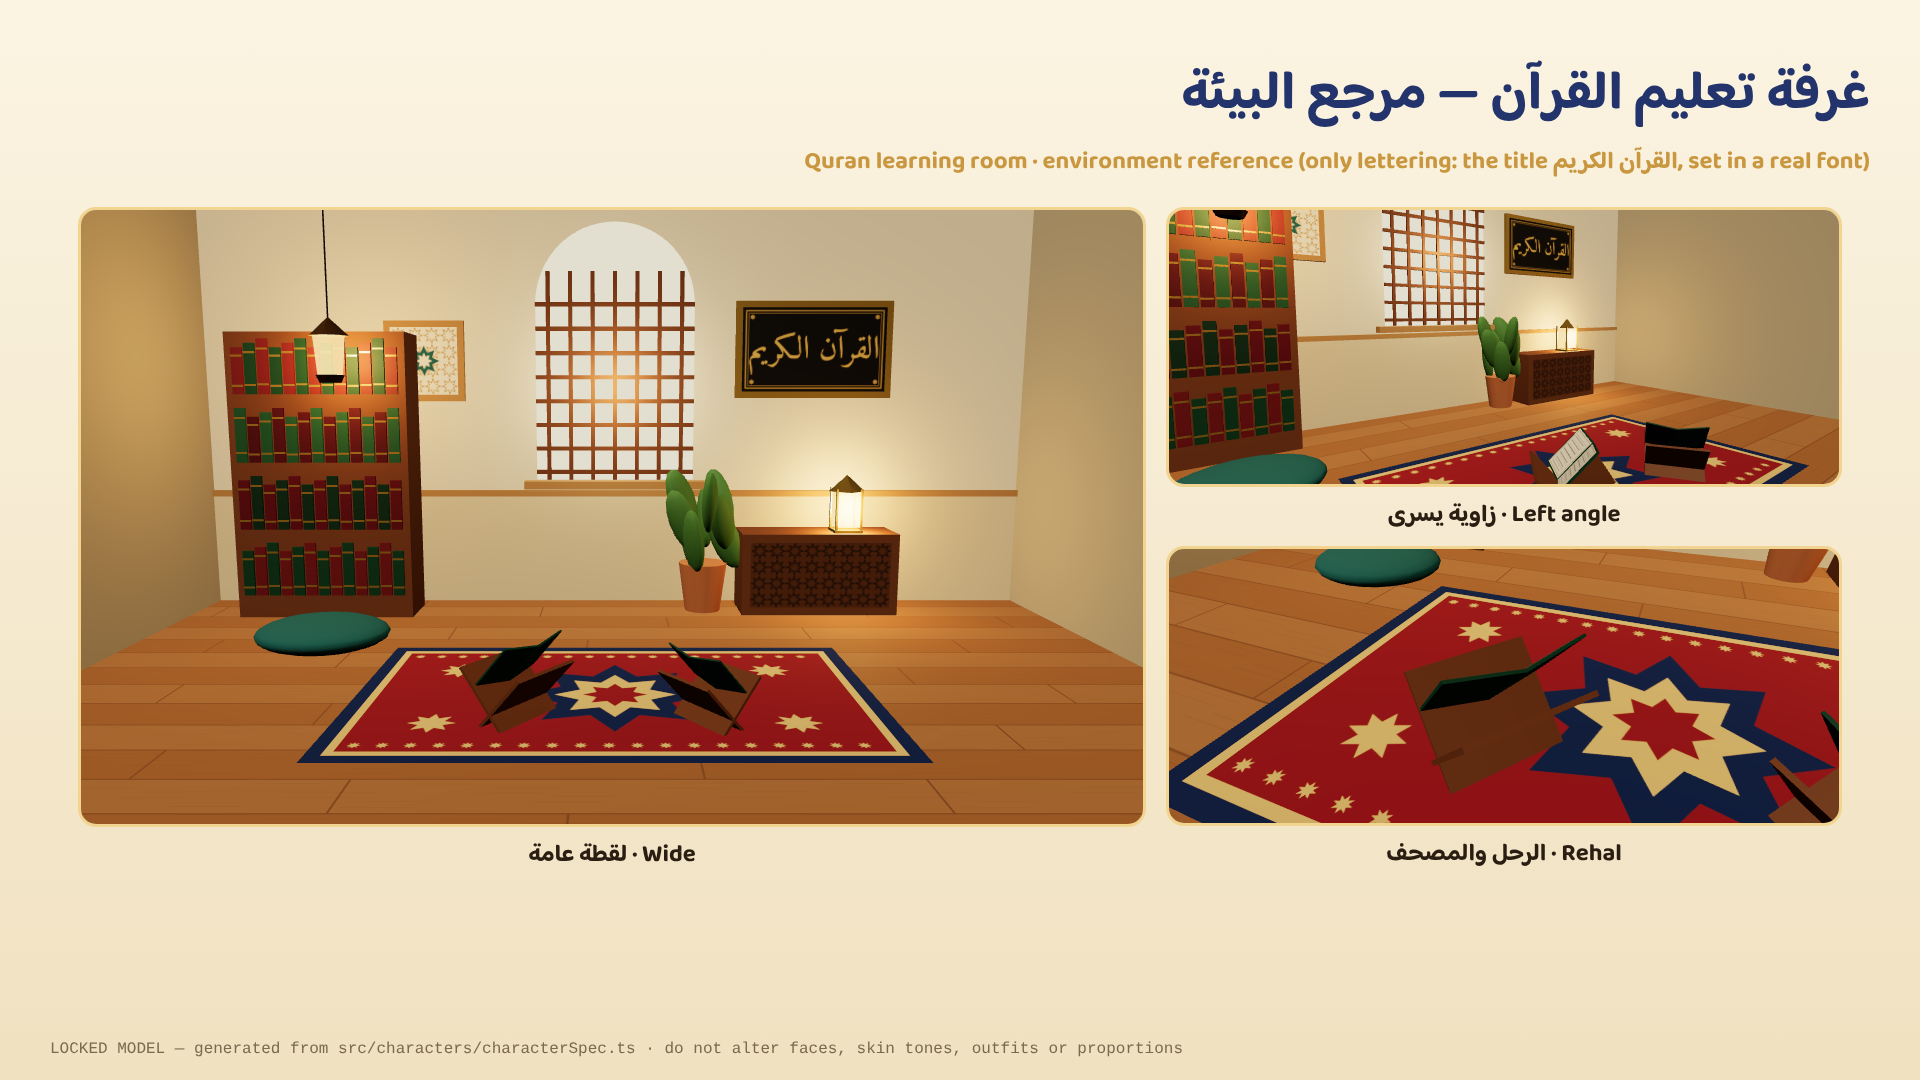
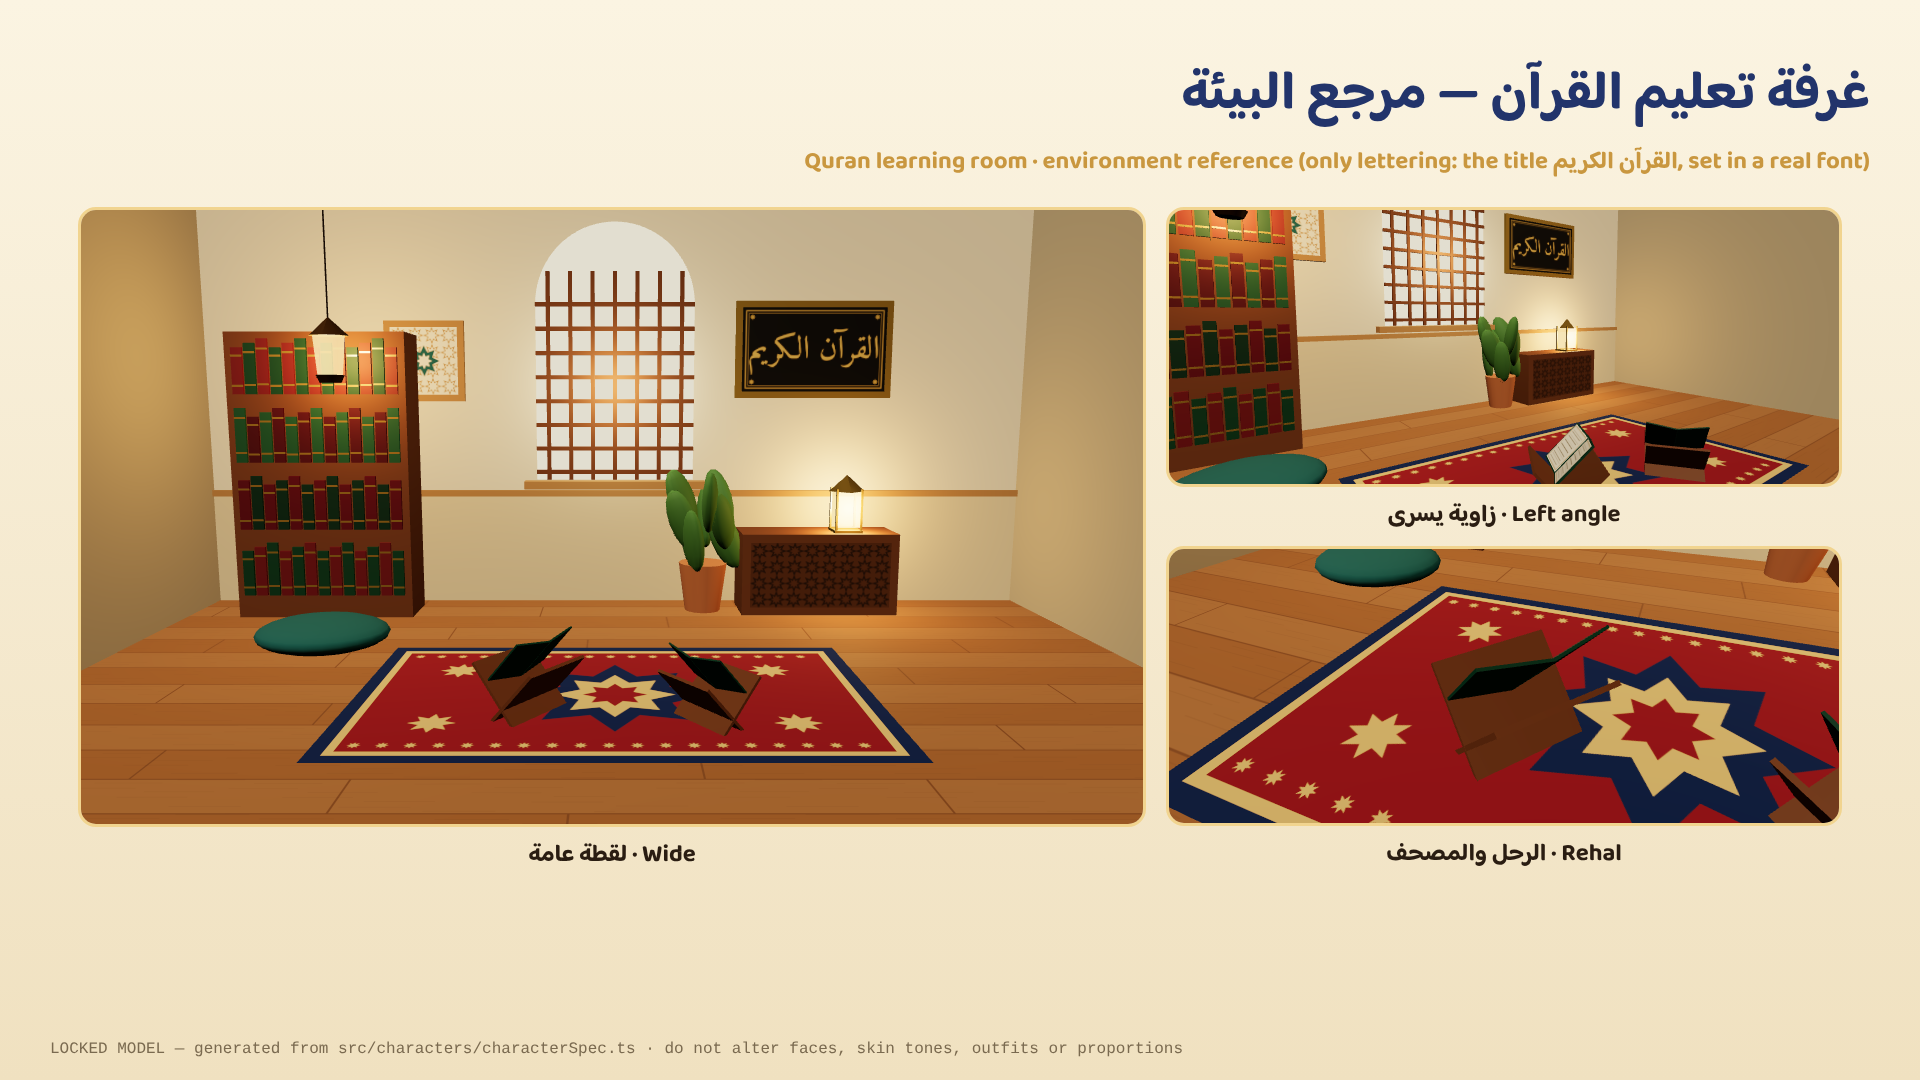
Fix father's pointing hand and make the motion livelier
- Father reads from his mushaf: head down, both hands forward, index
  finger extended at the line; his rehal moved closer
- Camera: 30-frame transitions, slow push-in during each shot, wider
  floating arc
- Characters: idle head motion, gentle rocking while reciting, nodding
  listener, talking hand gestures
- Character lock re-baselined (finger added to rig); sheets re-rendered

Claude-Session: https://claude.ai/code/session_01NgcjBUWNiDMhieXwj8vkNC

Changed region(s): [[0.7188, 0.5806, 0.8438, 0.7333], [0.2188, 0.5806, 0.3125, 0.6722], [0.7812, 0.3972, 0.8438, 0.4583]]

diff --git a/abi-quran/src/episode/Scene3D.tsx b/abi-quran/src/episode/Scene3D.tsx
@@ -42,12 +42,19 @@ const CameraRig: React.FC<{segments: Segment[]; layout: Layout}> = ({segments, l
   const presets = CAMERA_PRESETS[layout];
   const to = presets[shotOf(segments, index)];
   const from = index > 0 ? presets[shotOf(segments, index - 1)] : to;
-  const t = ease(Math.min(1, (frame - seg.from) / 22));
-  const pos = lerp3(from.pos, to.pos, t);
+  const TRANSITION = 30;
+  const t = ease(Math.min(1, (frame - seg.from) / TRANSITION));
+  let pos = lerp3(from.pos, to.pos, t);
   const target = lerp3(from.target, to.target, t);
-  // gentle handheld-free drift keeps the frame alive
-  pos[0] += Math.sin(frame / 90) * 0.03;
-  pos[1] += Math.sin(frame / 120) * 0.012;
+  // slow push-in during the shot (continues through the following pause)
+  const shotStart = seg.kind === 'pause' && index > 0 ? segments[index - 1].from : seg.from;
+  const shotLen = seg.kind === 'pause' && index > 0 ? segments[index - 1].durationInFrames + seg.durationInFrames : seg.durationInFrames;
+  const push = Easing.out(Easing.quad)(Math.min(1, Math.max(0, (frame - shotStart) / Math.max(1, shotLen)))) * 0.07;
+  pos = lerp3(pos, target, push);
+  // gentle floating arc keeps the frame alive
+  pos[0] += Math.sin(frame / 70) * 0.045;
+  pos[1] += Math.sin(frame / 95) * 0.02;
+  pos[2] += Math.sin(frame / 110) * 0.03;
   camera.position.set(...pos);
   camera.lookAt(...target);
   // @ts-expect-error perspective camera
@@ -92,7 +99,7 @@ const sonTarget = (s: Segment, frame: number): CharTarget => {
   }
 };
 
-const BLEND_FRAMES = 12;
+const BLEND_FRAMES = 16;
 
 const useCharacter = (segments: Segment[], who: Speaker, targetFn: (s: Segment, f: number) => CharTarget, seed: number) => {
   const frame = useCurrentFrame();
@@ -106,6 +113,22 @@ const useCharacter = (segments: Segment[], who: Speaker, targetFn: (s: Segment, 
 
   const speaking =
     (seg.kind === 'recite' && seg.speaker === who) || (seg.kind === 'line' && seg.line.speaker === who && frame < seg.from + seg.durationInFrames) ? seg : null;
+
+  // ── secondary motion, so no shot ever looks frozen ──
+  const sin = Math.sin;
+  // idle micro-movements of the head
+  pose = {...pose, headYaw: pose.headYaw + sin(frame / 53 + seed) * 0.035, headRoll: pose.headRoll + sin(frame / 71 + seed * 2) * 0.025, headPitch: pose.headPitch + sin(frame / 41 + seed) * 0.015};
+  if (speaking && speaking.kind === 'recite') {
+    // gentle forward rocking while reciting from the mushaf
+    pose = {...pose, torsoPitch: pose.torsoPitch + sin(frame * 0.16) * 0.035, headPitch: pose.headPitch + sin(frame * 0.16 + 0.6) * 0.035};
+    if (who === 'son') pose = {...pose, torsoYaw: pose.torsoYaw + sin(frame * 0.08) * 0.04};
+  } else if (speaking && speaking.kind === 'line' && who === 'father' && speaking.line.mood !== 'praising') {
+    // talking hand gesture
+    pose = {...pose, rightArm: {...pose.rightArm, elbow: pose.rightArm.elbow + sin(frame * 0.13) * 0.18, shoulderRoll: pose.rightArm.shoulderRoll + sin(frame * 0.09) * 0.08}};
+  } else if (seg.kind === 'recite' && seg.speaker !== who) {
+    // listener nods now and then
+    pose = {...pose, headPitch: pose.headPitch + Math.max(0, sin(frame * 0.11 + seed)) * 0.045};
+  }
   const mouthOpen = useMouthOpen({
     audioSrc: speaking && (speaking.kind === 'recite' || speaking.kind === 'line') ? speaking.audioSrc : null,
     from: speaking ? speaking.from : -1,

diff --git a/abi-quran/src/characters/poses.ts b/abi-quran/src/characters/poses.ts
@@ -9,6 +9,8 @@ export type ArmPose = {
   shoulderRoll: number;
   /** elbow bend (+ = bend forward) */
   elbow: number;
+  /** extend the index finger (pointing at the mushaf line) */
+  point?: boolean;
 };
 
 export type Pose = {
@@ -30,7 +32,7 @@ export type Expression = {
   lookY: number; // -1..1
 };
 
-const arm = (shoulderPitch: number, shoulderRoll: number, elbow: number): ArmPose => ({shoulderPitch, shoulderRoll, elbow});
+const arm = (shoulderPitch: number, shoulderRoll: number, elbow: number, point = false): ArmPose => ({shoulderPitch, shoulderRoll, elbow, point});
 
 export const POSES = {
   /** Hands resting on knees, upright. */
@@ -42,7 +44,7 @@ export const POSES = {
   /** Father listening to his son: head tilted toward son, slight lean. */
   listening: {headYaw: 0.5, headPitch: 0.18, headRoll: 0.1, torsoYaw: 0.2, torsoPitch: 0.08, leftArm: arm(0.5, 0.18, 0.9), rightArm: arm(0.62, 0.05, 0.75)},
   /** Father reciting from his own mushaf, pointing at the line (reference picture). */
-  pointing: {headYaw: 0.18, headPitch: 0.16, headRoll: 0.03, torsoYaw: 0.1, torsoPitch: 0.14, leftArm: arm(0.85, 0.12, 0.95), rightArm: arm(1.15, 0.05, 0.55)},
+  pointing: {headYaw: 0.05, headPitch: 0.3, headRoll: 0.03, torsoYaw: 0.05, torsoPitch: 0.16, leftArm: arm(1.0, -0.22, 0.75), rightArm: arm(1.2, -0.28, 0.45, true)},
   /** Father praising: hand raised toward son, upright, proud. */
   praising: {headYaw: 0.45, headPitch: 0.05, headRoll: 0.08, torsoYaw: 0.25, torsoPitch: 0.02, leftArm: arm(0.5, 0.18, 0.9), rightArm: arm(1.35, 0.7, 0.8)},
   /** Addressing the camera / the children watching. */
@@ -70,6 +72,7 @@ const mixArm = (a: ArmPose, b: ArmPose, t: number): ArmPose => ({
   shoulderPitch: lerp(a.shoulderPitch, b.shoulderPitch, t),
   shoulderRoll: lerp(a.shoulderRoll, b.shoulderRoll, t),
   elbow: lerp(a.elbow, b.elbow, t),
+  point: t < 0.5 ? a.point : b.point,
 });
 
 export const mixPose = (a: Pose, b: Pose, t: number): Pose => ({

diff --git a/abi-quran/src/environment/QuranRoom3D.tsx b/abi-quran/src/environment/QuranRoom3D.tsx
@@ -432,7 +432,7 @@ export const QuranRoom3D: React.FC<{lanternFlicker?: number}> = ({lanternFlicker
 
 /** Each reader has his own wooden rehal with an open mushaf (reference picture). */
 export const SON_REHAL_POS: [number, number, number] = [0.38, 0, 0.47];
-export const FATHER_REHAL_POS: [number, number, number] = [-0.4, 0, 0.42];
+export const FATHER_REHAL_POS: [number, number, number] = [-0.36, 0, 0.36];
 
 const Rehal: React.FC<{pageTex: THREE.Texture; position: [number, number, number]; rotationY: number; scale: number}> = ({pageTex, position, rotationY, scale}) => (
   <group position={position} rotation={[0, rotationY, 0]} scale={scale}>

diff --git a/abi-quran/src/characters/Character3D.tsx b/abi-quran/src/characters/Character3D.tsx
@@ -252,6 +252,12 @@ const Arm: React.FC<{side: 1 | -1; spec: CharacterSpec; arm: Pose['leftArm']; sh
           <capsuleGeometry args={[0.014, 0.03, 4, 8]} />
           {mat(c.skin)}
         </mesh>
+        {arm.point && (
+          <mesh position={[0, -p.forearm - 0.13, 0.01]}>
+            <capsuleGeometry args={[0.012, 0.06, 4, 8]} />
+            {mat(c.skin)}
+          </mesh>
+        )}
       </group>
     </group>
   );

diff --git a/abi-quran/docs/qa/S114-qa-report.md b/abi-quran/docs/qa/S114-qa-report.md
@@ -1,6 +1,6 @@
 # QA report — Episode 1: Surah An-Nas (الناس, 114)
 
-Generated 2026-11-25 08:29 UTC by `scripts/qa-episode.mjs` (with visual check).
+Generated 2026-11-25 09:18 UTC by `scripts/qa-episode.mjs` (with visual check).
 
 **Automated checks:** 23 passed · 0 failed · 4 pending human action
 
@@ -50,7 +50,7 @@ Generated 2026-11-25 08:29 UTC by `scripts/qa-episode.mjs` (with visual check).
 | | Check | Detail |
 |---|---|---|
 | ✅ | Character spec unchanged since lock | sha256 f36e9e94008d… |
-| ✅ | Character rig unchanged since lock | sha256 0951ec90ee0d… |
+| ✅ | Character rig unchanged since lock | sha256 9af58db2abc5… |
 | ✅ | Single source of truth: character colours only defined in characterSpec.ts | 25 locked colours |
 | ✅ | Same model instance used in every episode (shared Scene3D) |  |
 | ✅ | father: re-render matches approved reference sheet (SSIM ≥ 0.995) | SSIM 1 |
